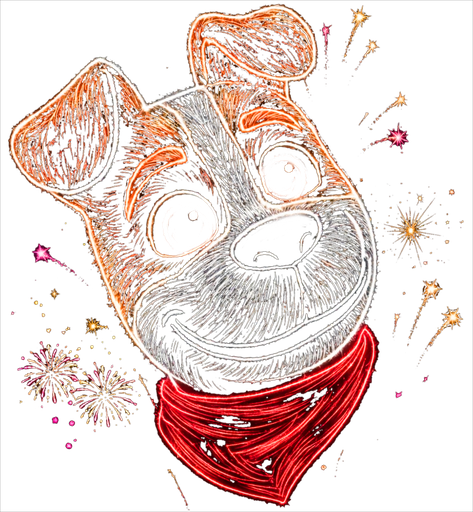
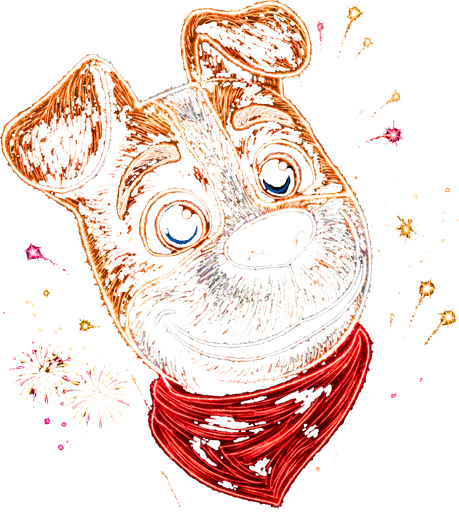
Update Sam character art (web-optimized) and cache bust

diff --git a/js/game.js b/js/game.js
@@ -29,7 +29,7 @@
   }
 
   /** Bump when character PNGs change (GitHub Pages / browser cache). */
-  const REWARD_ASSET_V = "web-chars3";
+  const REWARD_ASSET_V = "web-chars4";
 
   function assetWithCacheBust(path) {
     if (!path) return path;

diff --git a/index.html b/index.html
@@ -80,6 +80,6 @@
       </div>
     </div>
   </div>
-  <script src="js/game.js?v=slot38"></script>
+  <script src="js/game.js?v=slot39"></script>
 </body>
 </html>
